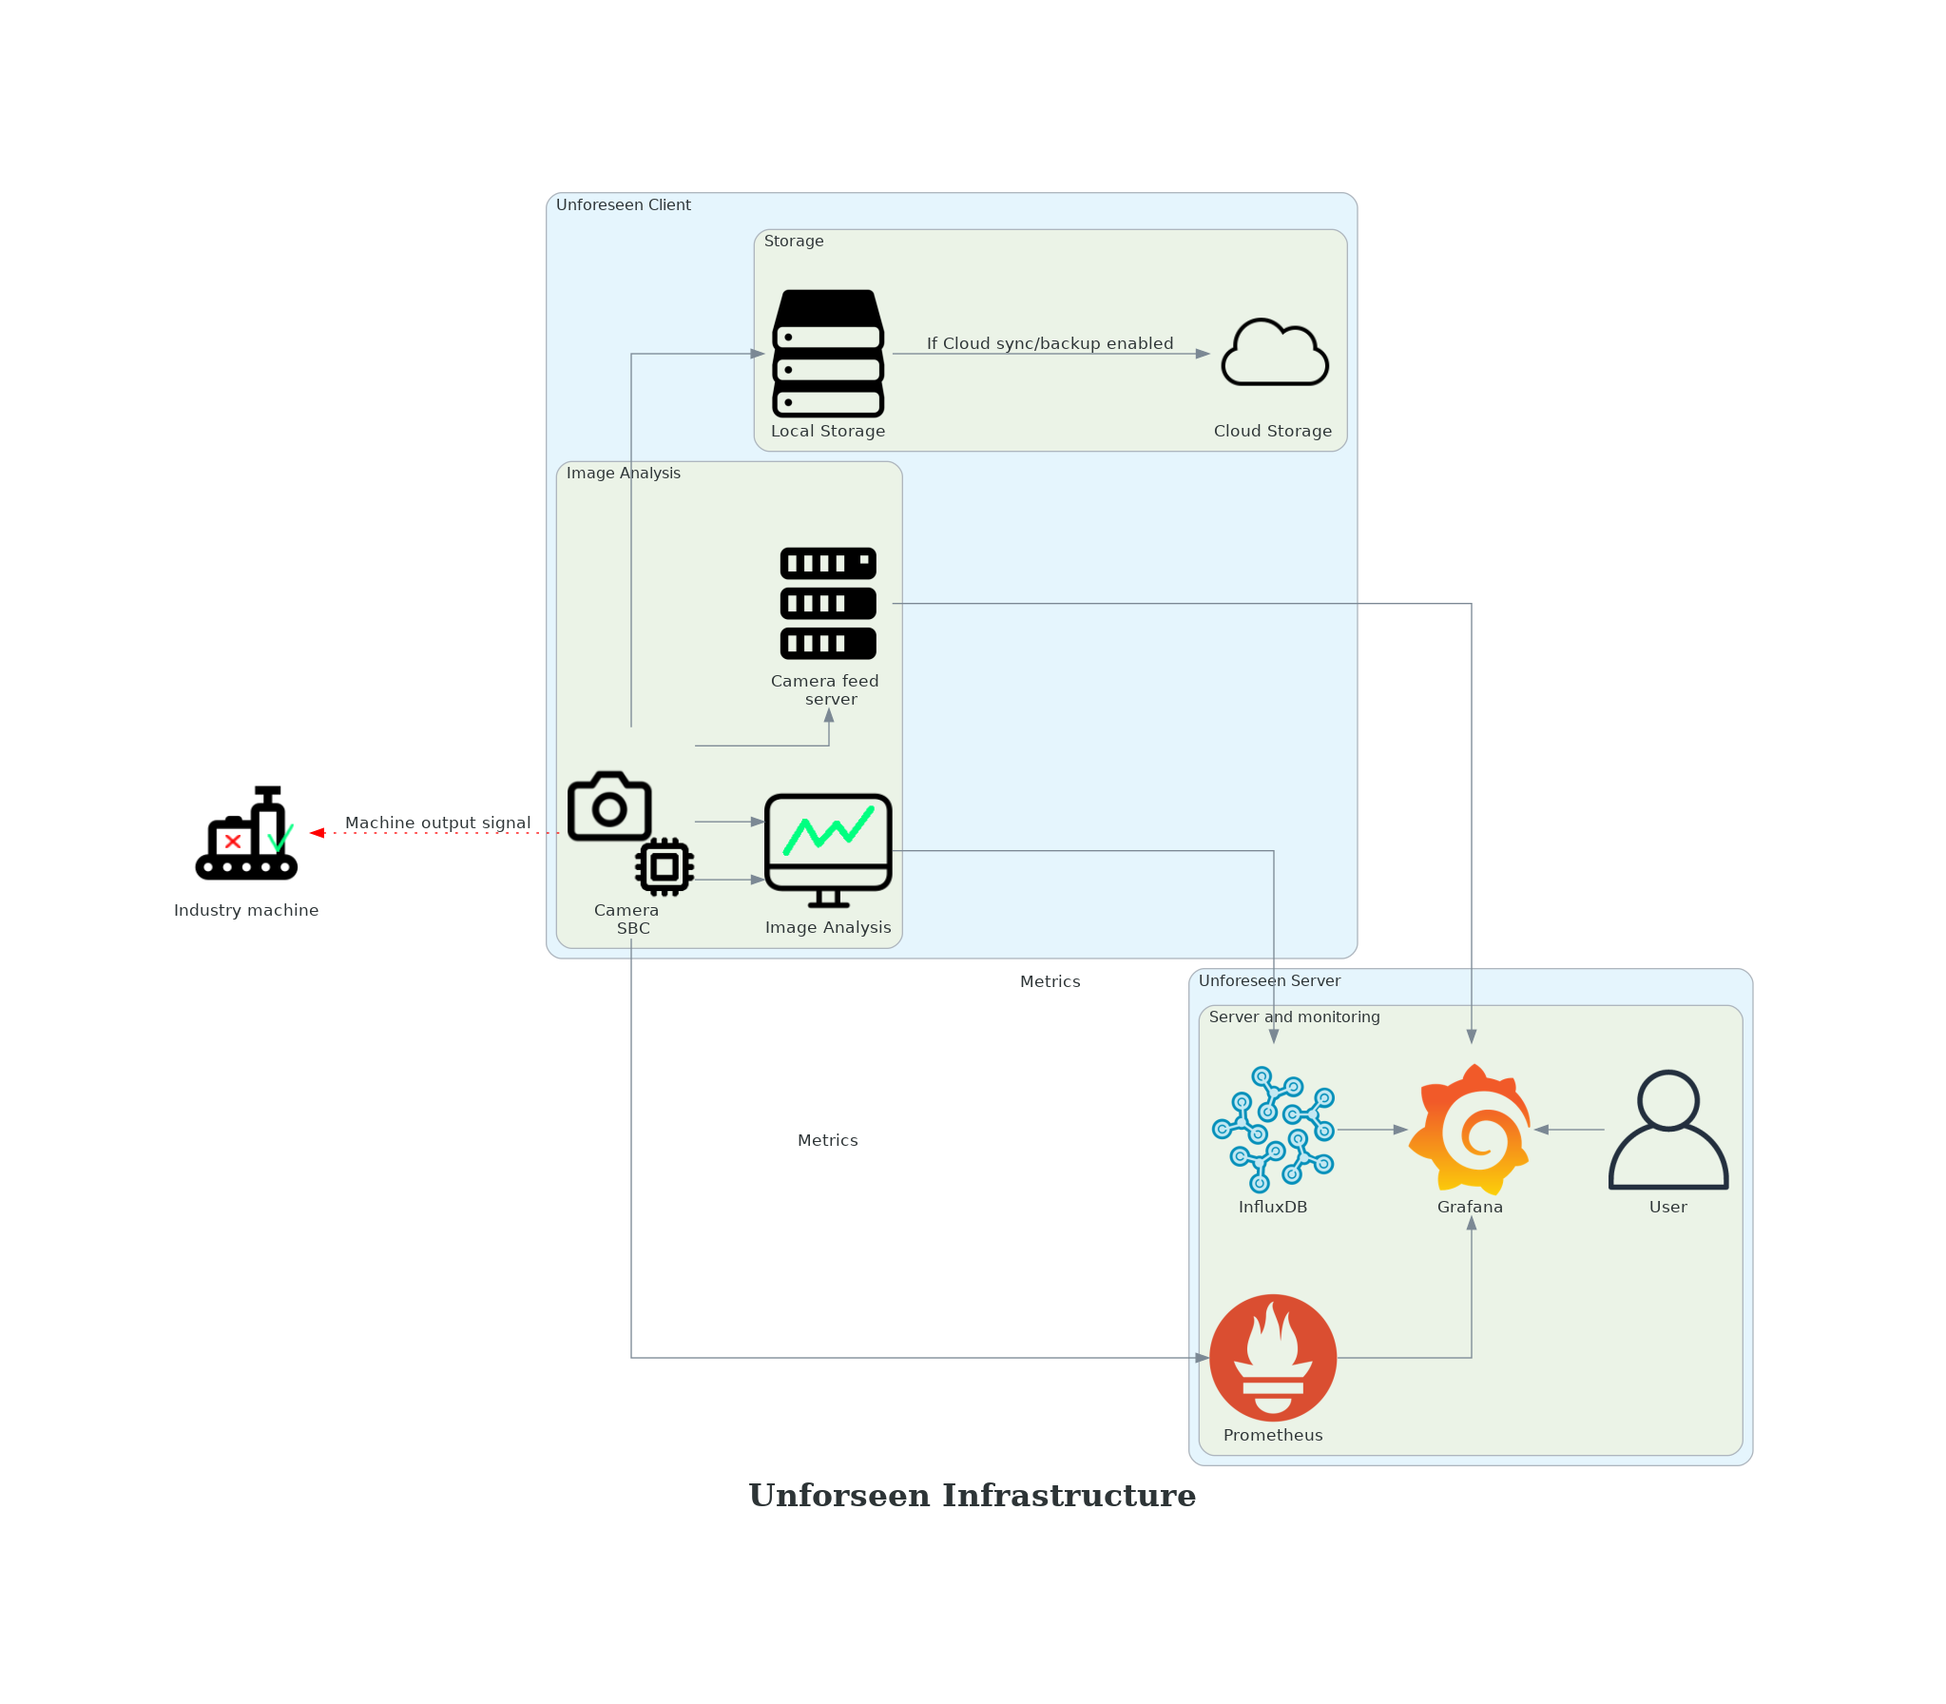
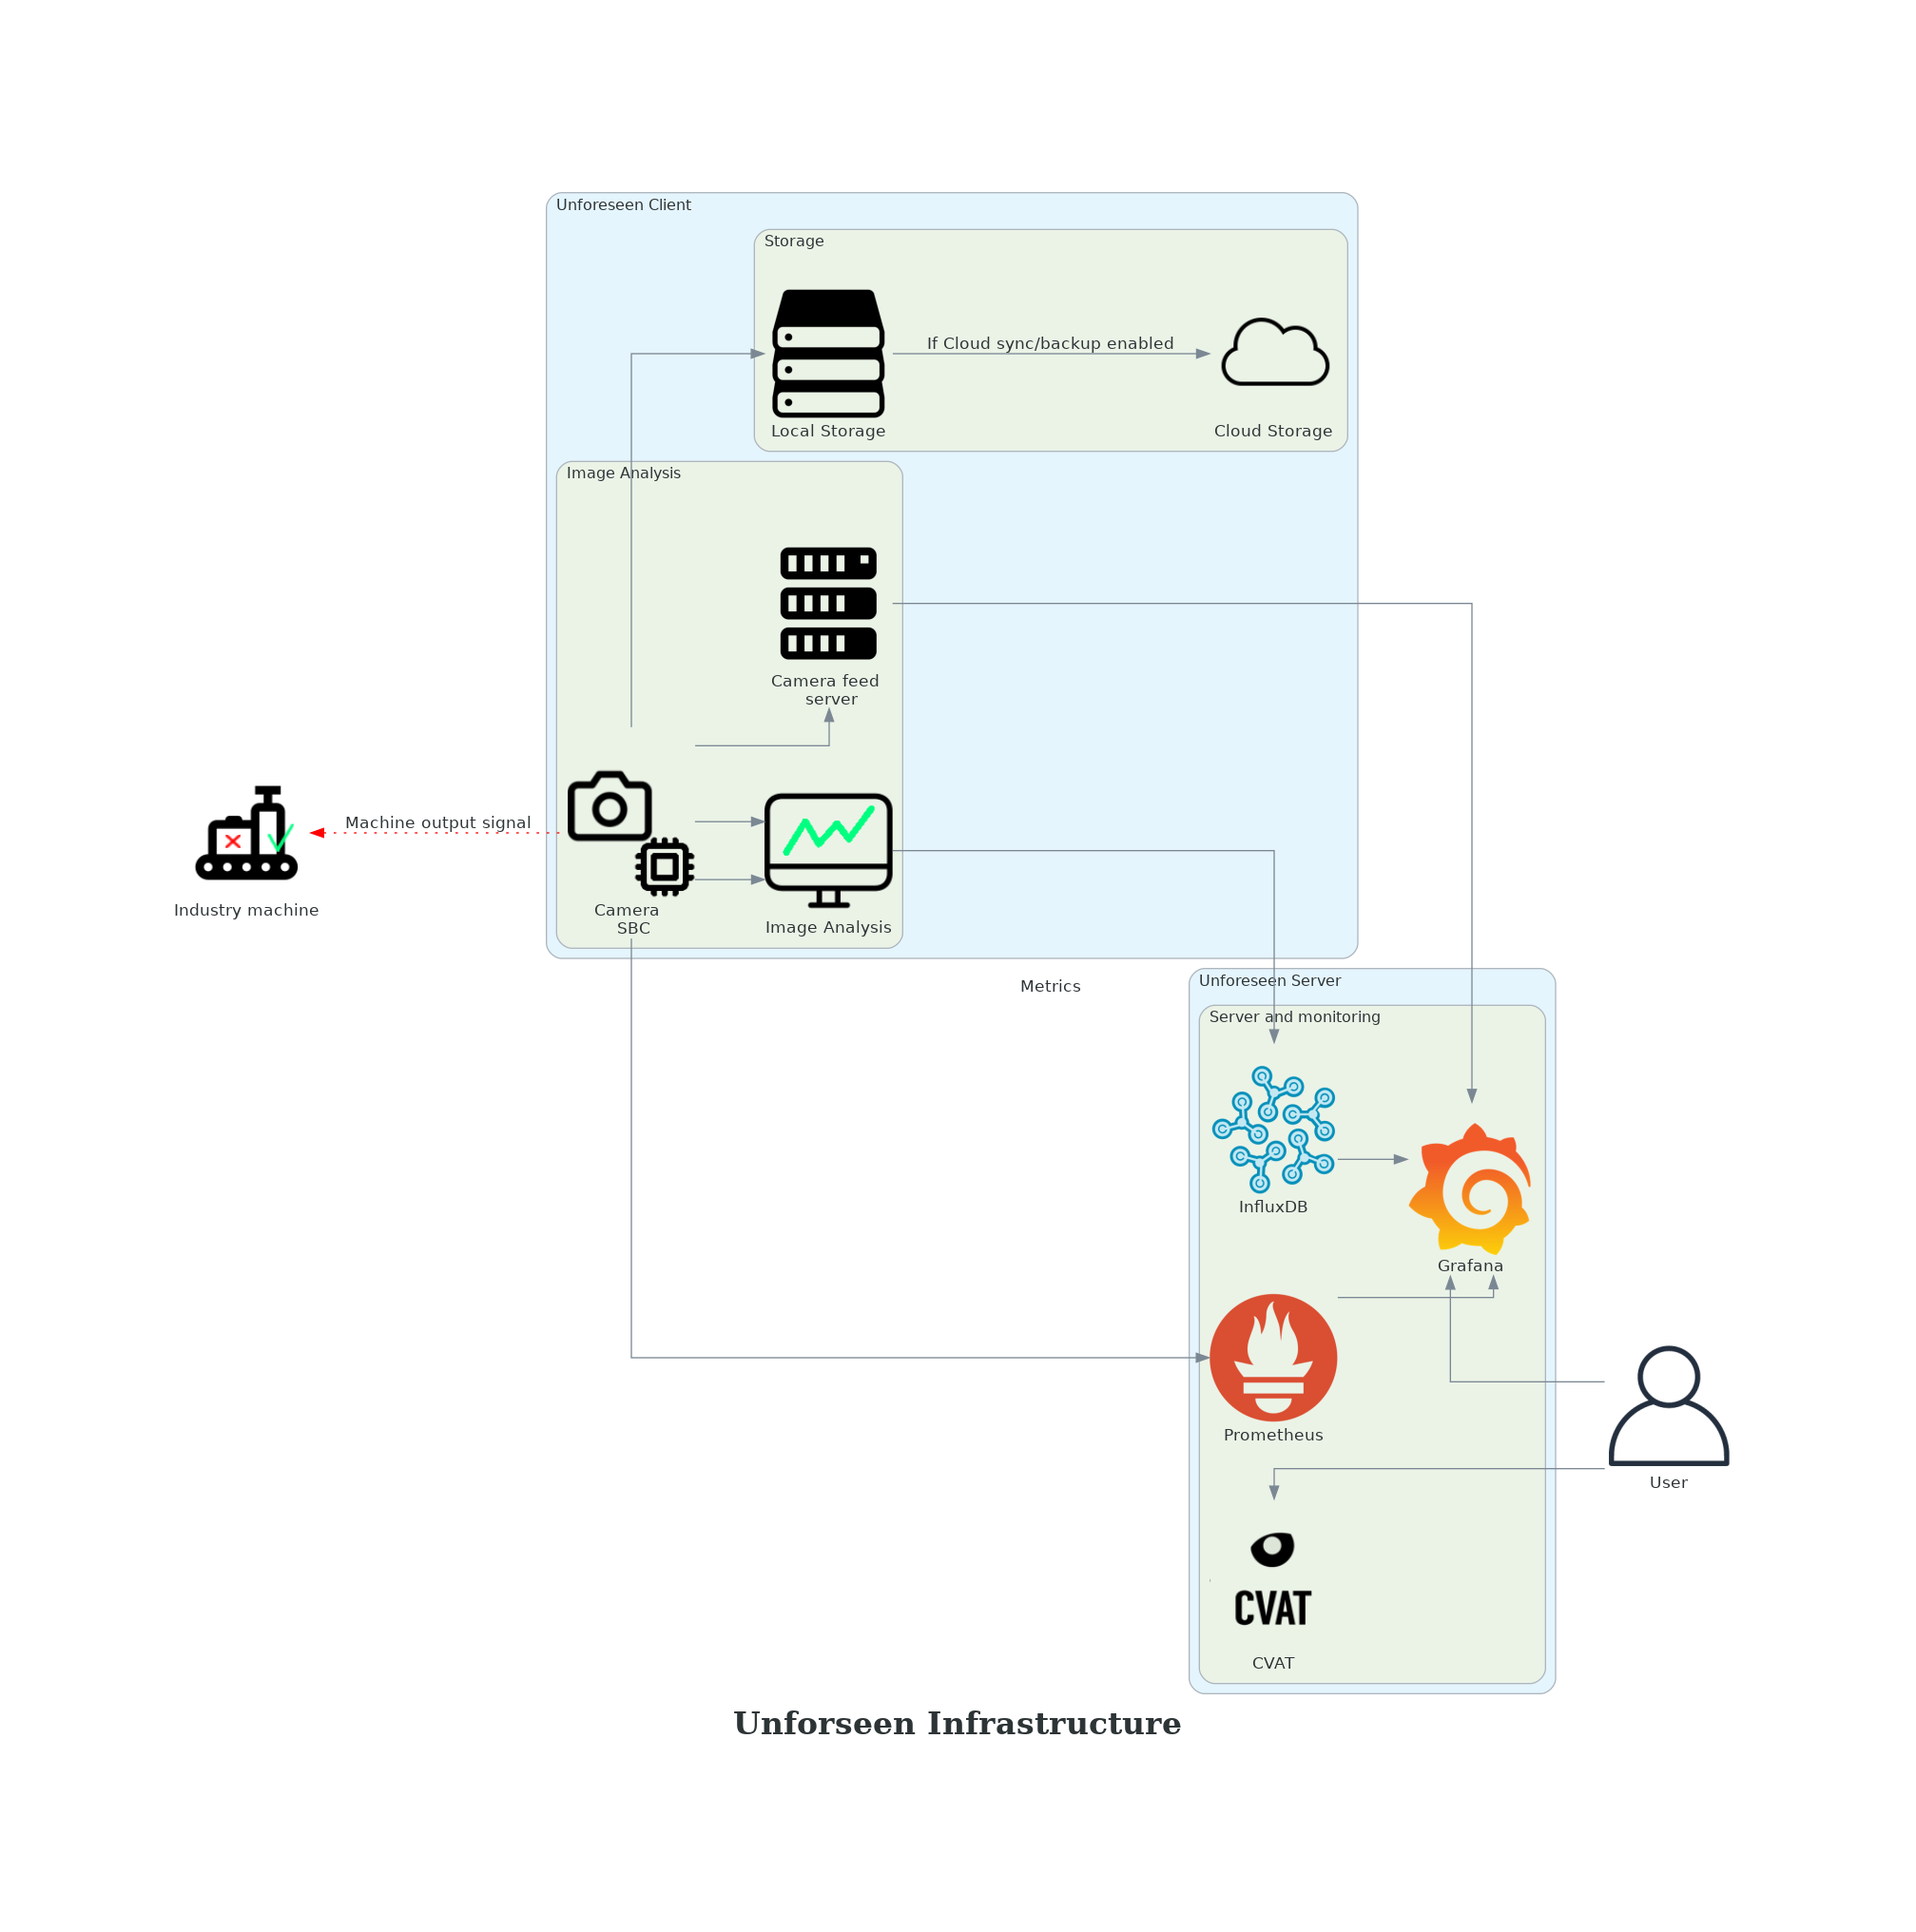
added readme.md

diff --git a/diagram/diagram.py b/diagram/diagram.py
@@ -19,6 +19,7 @@ analysis_icon = "./icons/analysis-128.png"
 machine_icon = "./icons/conveyor-128.png"
 cloud_icon = "./icons/cloud-128.png"
 camera_icon = "./icons/camera-128.png"
+cvat_icon = "./icons/cvat-128.png"
 
 graph_attr = {
     "fontsize": "25",
@@ -34,8 +35,8 @@ for outputformat in ["png"]:
             with Cluster("Server and monitoring"):
                 grafana = Grafana("Grafana")
                 influxdb = InfluxDB("InfluxDB")
-                prometheus = Prometheus("Prometheus")
-                user = User("User")	
+                prometheus = Prometheus("Prometheus")	
+                cvat = Custom("CVAT", cvat_icon)
 
         with Cluster("Unforeseen Client"):
             with Cluster("Image Analysis"):
@@ -46,21 +47,23 @@ for outputformat in ["png"]:
             with Cluster("Storage"):
                 cloud = Custom("Cloud Storage", cloud_icon)
                 local = Storage("Local Storage")
-                      
+         
+        user = User("User")               
         #with Cluster("Remote"):
         #    github = Github(f"{name} Reposotory \n Costumer Fork")
         #    ansible = Ansible("Ansible")
  
 
-            
+          
         output_machine << Edge(color="red",style="dotted",label="Machine output signal") << device
         influxdb >> grafana << user
         device >> camerafeed >>  grafana
         events >> Edge(label="Metrics") >> influxdb
         device >> events
         device >> events
-        device >> Edge(label="Metrics") >> prometheus
+        device >> prometheus
         prometheus >> grafana
+        user >> cvat
         #grafana << ansible
         #ansible << github
         

diff --git a/README.md b/README.md
@@ -1,1 +1,19 @@
+# Unforeseen
+Unforeseen is an open source client–server model for computer vision applications.
+Unforeseen is meant to be robust and able to run on low cost SoC devices (Raspberry pi / Jetson Nano), which makes it ideal for easy deployment in a production facility / manufacturing factory, or just for your vision DIY projects.
+
+All communication between the client and server is done via HTTP (except for remote camera calibration). This of course leaves some restrictions w.r.t e.g RTSP, however the HTTP protocol is chosen to make integration with prometheus and grafana seamless and to give the end user (whom might not be a computer expert) an easy way to access the data dashboard. See the diagram for a complete overview.
+
 ![Unforeseen infrastructure](diagram/unforseen_infrastructure.png)
+
+### Unforeseen client
+Currently the supported (maintained) SoC is the [Jetson Nano](https://developer.nvidia.com/embedded/jetson-nano-developer-kit), but the [Jetson Xavier](https://www.nvidia.com/en-us/autonomous-machines/embedded-systems/jetson-xavier-nx/) should work as well.
+With slight modifications to the client code it should also be possible to get the [Coral](https://coral.ai/products/) to work.
+
+See the [Client README.md](https://github.com/petoor/unforeseen-client/blob/main/README.md) to get started
+
+### Unforeseen server
+The server is assumed to be a Raspberry pi 3+ or 4. However, any computer running linux should work just fine. 
+Note in order to run the influxdb we need a 64-bit OS. See the [Raspberry Pi OS (64 bit)](https://downloads.raspberrypi.org/raspios_arm64/images/) as of writing, this is a beta version, but it seems to work just fine.
+
+See the [Server README.md](https://github.com/petoor/unforeseen-server/blob/main/README.md) to get started
